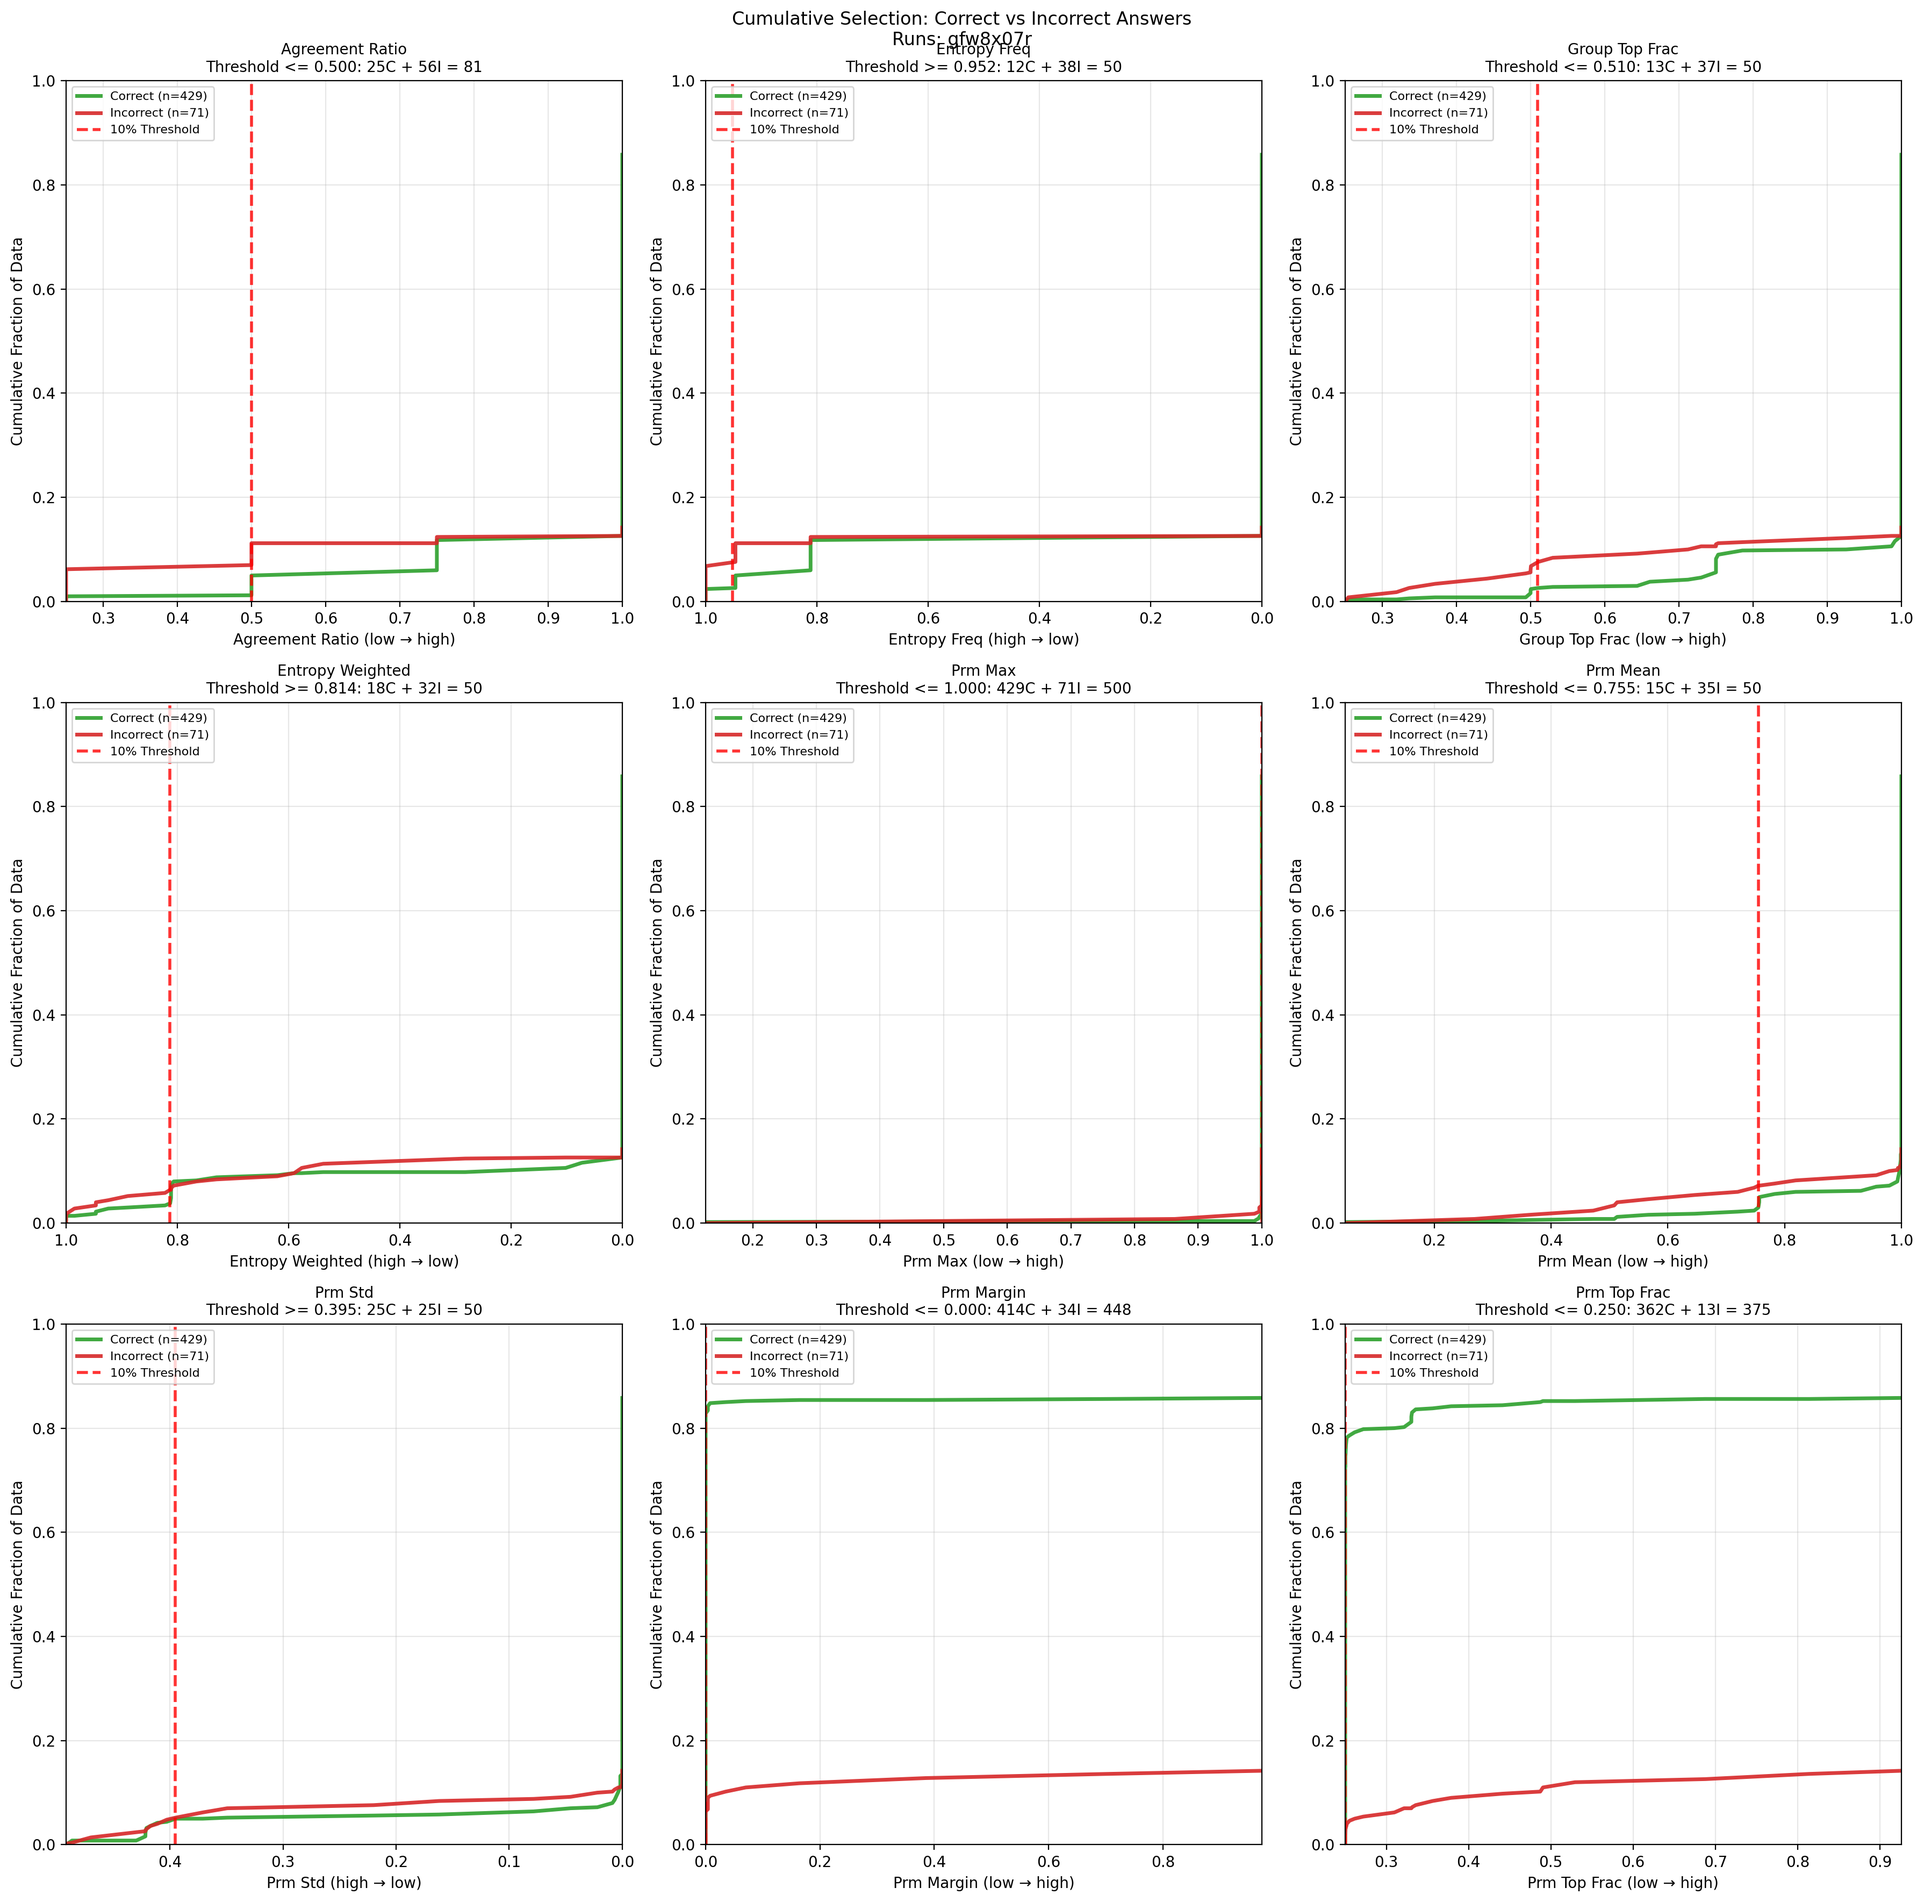
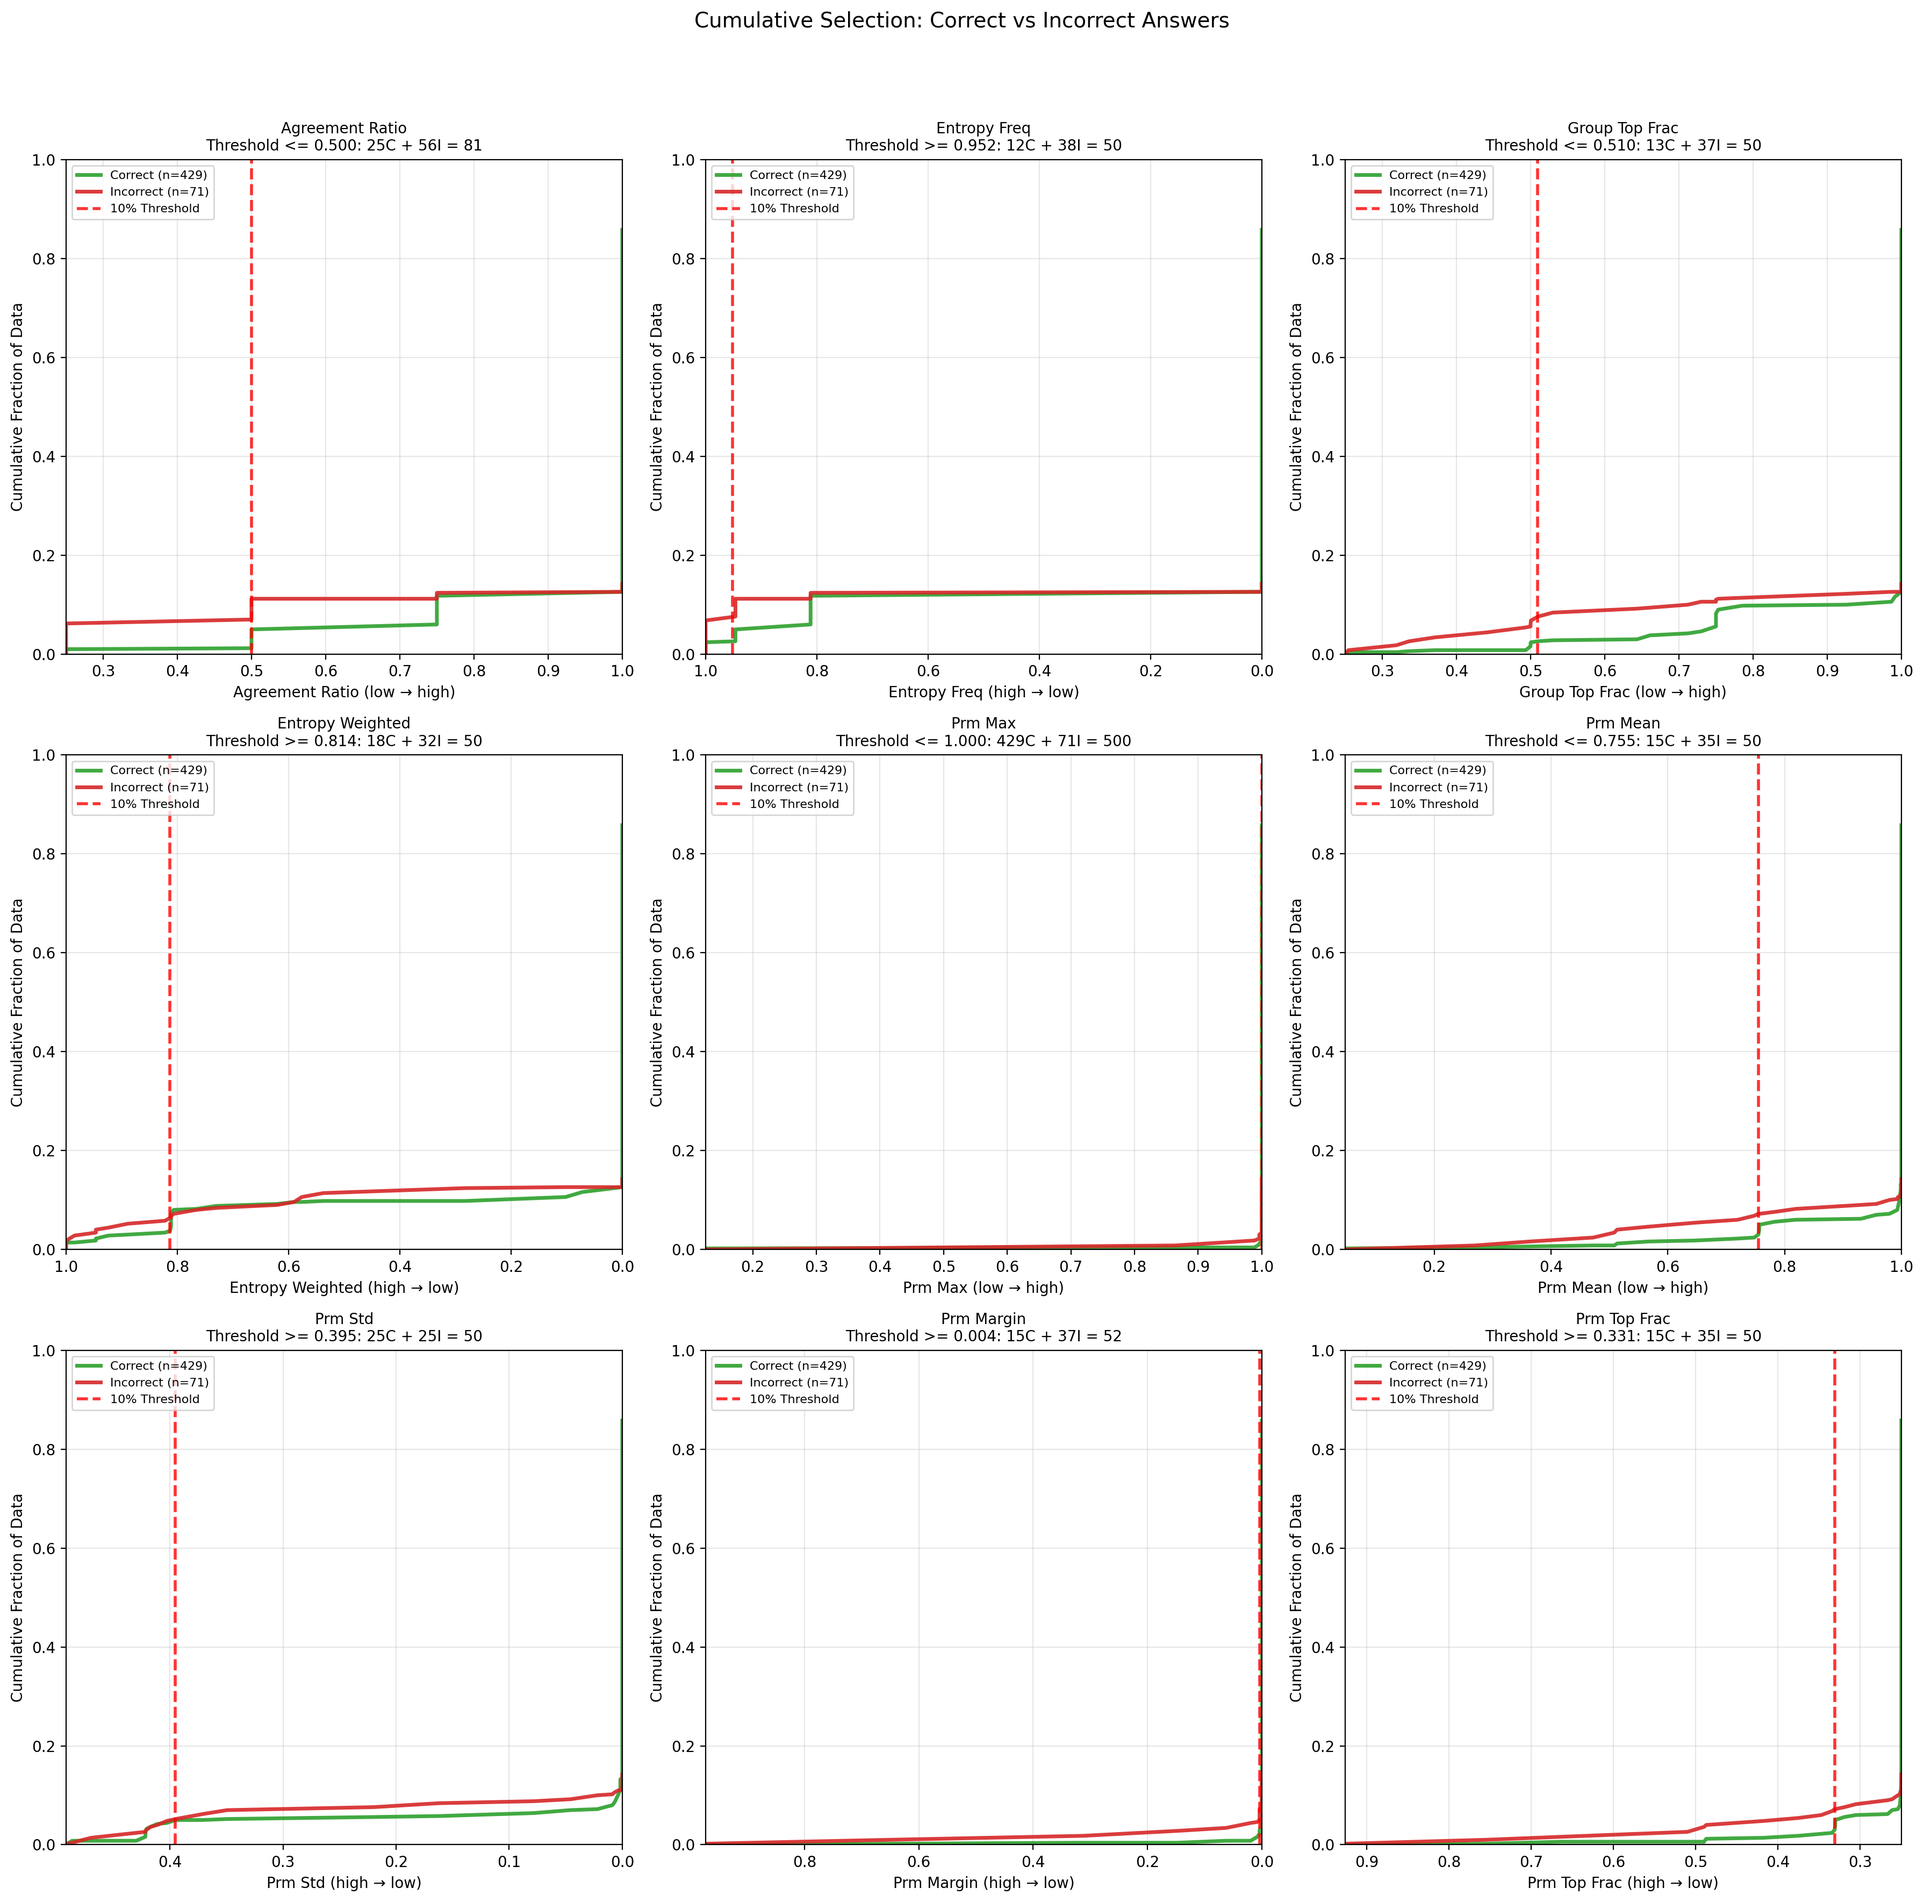
violins complete

diff --git a/scripts/selection_2.py b/scripts/selection_2.py
@@ -19,11 +19,16 @@ from scripts.inference_visualiser import (
 )
 
 
-def calculate_thresholds(all_data: Dict[str, List[float]]) -> Dict[str, float]:
+def calculate_thresholds(
+    all_data: Dict[str, List[float]],
+    correct_data: Dict[str, List[float]],
+    incorrect_data: Dict[str, List[float]],
+) -> Dict[str, float]:
     """Calculate thresholds for each metric to capture 10% of data points.
 
-    Low values indicate high uncertainty: agreement_ratio, group_top_frac, prm_max, prm_mean, prm_margin, prm_top_frac
-    High values indicate high uncertainty: entropy_freq, entropy_weighted, prm_std
+    Direction is determined by comparing means: if incorrect answers have higher mean values,
+    then high values indicate uncertainty (use 90th percentile). If incorrect answers have
+    lower mean values, then low values indicate uncertainty (use 10th percentile).
     """
     thresholds = {}
 
@@ -32,30 +37,50 @@ def calculate_thresholds(all_data: Dict[str, List[float]]) -> Dict[str, float]:
     for metric in all_data.keys():
         combined_data[metric] = all_data[metric]
 
-    # Metrics where LOW values indicate HIGH uncertainty (use 10th percentile)
-    low_uncertainty_metrics = [
-        "agreement_ratio",
-        "group_top_frac",
-        "prm_max",
-        "prm_mean",
-        "prm_margin",
-        "prm_top_frac",
-    ]
-
-    # Metrics where HIGH values indicate HIGH uncertainty (use 90th percentile)
-    high_uncertainty_metrics = ["entropy_freq", "entropy_weighted", "prm_std"]
-
-    # Calculate thresholds
+    # Calculate thresholds based on data-driven direction
     for metric in combined_data.keys():
-        if metric in low_uncertainty_metrics:
-            thresholds[metric] = np.percentile(combined_data[metric], 10)
-        elif metric in high_uncertainty_metrics:
+        correct_mean = np.mean(correct_data[metric]) if correct_data[metric] else 0.0
+        incorrect_mean = (
+            np.mean(incorrect_data[metric]) if incorrect_data[metric] else 0.0
+        )
+
+        # If incorrect answers have higher mean values, high values indicate uncertainty
+        if incorrect_mean > correct_mean:
             thresholds[metric] = np.percentile(combined_data[metric], 90)
         else:
-            # Default to low uncertainty behavior for unknown metrics
+            # If incorrect answers have lower mean values, low values indicate uncertainty
             thresholds[metric] = np.percentile(combined_data[metric], 10)
 
     return thresholds
+
+
+def get_metric_direction(
+    metric: str,
+    correct_data: Dict[str, List[float]],
+    incorrect_data: Dict[str, List[float]],
+) -> str:
+    """Determine if a metric uses <= or >= threshold based on mean comparison.
+
+    Returns "<=" if low values indicate uncertainty, ">=" if high values indicate uncertainty.
+    """
+    correct_mean = np.mean(correct_data[metric]) if correct_data[metric] else 0.0
+    incorrect_mean = np.mean(incorrect_data[metric]) if incorrect_data[metric] else 0.0
+
+    # If incorrect answers have higher mean values, high values indicate uncertainty
+    if incorrect_mean > correct_mean:
+        return ">="
+    else:
+        # If incorrect answers have lower mean values, low values indicate uncertainty
+        return "<="
+
+
+def is_low_uncertainty_metric(
+    metric: str,
+    correct_data: Dict[str, List[float]],
+    incorrect_data: Dict[str, List[float]],
+) -> bool:
+    """Return True if low values indicate high uncertainty for this metric."""
+    return get_metric_direction(metric, correct_data, incorrect_data) == "<="
 
 
 def analyze_threshold_correctness(
@@ -66,21 +91,9 @@ def analyze_threshold_correctness(
     """Analyze how many correct vs incorrect answers fall within each threshold."""
     analysis = {}
 
-    # Metrics where LOW values indicate HIGH uncertainty (use <= threshold)
-    low_uncertainty_metrics = [
-        "agreement_ratio",
-        "group_top_frac",
-        "prm_max",
-        "prm_mean",
-        "prm_margin",
-        "prm_top_frac",
-    ]
-
-    # Metrics where HIGH values indicate HIGH uncertainty (use >= threshold)
-    high_uncertainty_metrics = ["entropy_freq", "entropy_weighted", "prm_std"]
-
     for metric in thresholds.keys():
-        if metric in low_uncertainty_metrics:
+        # Determine direction based on data
+        if is_low_uncertainty_metric(metric, correct_data, incorrect_data):
             # Count values <= threshold
             correct_selected = sum(
                 1 for x in correct_data[metric] if x <= thresholds[metric]
@@ -88,21 +101,13 @@ def analyze_threshold_correctness(
             incorrect_selected = sum(
                 1 for x in incorrect_data[metric] if x <= thresholds[metric]
             )
-        elif metric in high_uncertainty_metrics:
+        else:
             # Count values >= threshold
             correct_selected = sum(
                 1 for x in correct_data[metric] if x >= thresholds[metric]
             )
             incorrect_selected = sum(
                 1 for x in incorrect_data[metric] if x >= thresholds[metric]
-            )
-        else:
-            # Default to low uncertainty behavior
-            correct_selected = sum(
-                1 for x in correct_data[metric] if x <= thresholds[metric]
-            )
-            incorrect_selected = sum(
-                1 for x in incorrect_data[metric] if x <= thresholds[metric]
             )
 
         analysis[metric] = {
@@ -160,7 +165,7 @@ def analyze_and_plot(run_ids: List[str]) -> None:
                     all_incorrect_data[metric].append(metric_value)
 
     # Calculate thresholds for 10% selection
-    thresholds = calculate_thresholds(all_data)
+    thresholds = calculate_thresholds(all_data, all_correct_data, all_incorrect_data)
     correctness_analysis = analyze_threshold_correctness(
         all_correct_data, all_incorrect_data, thresholds
     )
@@ -179,21 +184,19 @@ def analyze_and_plot(run_ids: List[str]) -> None:
     total_points = len(all_data["agreement_ratio"])
     print(f"\nThreshold Analysis (targeting 10% of {total_points} data points):")
 
-    # Metrics where LOW values indicate HIGH uncertainty (use <= threshold)
-    low_uncertainty_metrics = [
-        "agreement_ratio",
-        "group_top_frac",
-        "prm_max",
-        "prm_mean",
-        "prm_margin",
-        "prm_top_frac",
-    ]
-
     for metric in metrics_list:
         if metric not in thresholds:
             continue
 
-        direction = "<=" if metric in low_uncertainty_metrics else ">="
+        # Determine direction based on actual data
+        direction = get_metric_direction(metric, all_correct_data, all_incorrect_data)
+        correct_mean = (
+            np.mean(all_correct_data[metric]) if all_correct_data[metric] else 0.0
+        )
+        incorrect_mean = (
+            np.mean(all_incorrect_data[metric]) if all_incorrect_data[metric] else 0.0
+        )
+
         analysis = correctness_analysis[metric]
         correct_pct = (
             100 * analysis["correct_selected"] / analysis["total_selected"]
@@ -204,6 +207,7 @@ def analyze_and_plot(run_ids: List[str]) -> None:
         print(
             f"  {metric.replace('_', ' ').title()}: {direction} {thresholds[metric]:.4f}"
         )
+        print(f"    Means: Correct={correct_mean:.3f}, Incorrect={incorrect_mean:.3f}")
         print(
             f"    Selected: {analysis['total_selected']} ({100 * analysis['total_selected'] / total_points:.1f}%)"
         )
@@ -247,16 +251,6 @@ def create_cumulative_line_charts(
     elif n_cols == 1:
         axes = axes.reshape(-1, 1)
 
-    # Metrics where LOW values indicate HIGH uncertainty
-    low_uncertainty_metrics = [
-        "agreement_ratio",
-        "group_top_frac",
-        "prm_max",
-        "prm_mean",
-        "prm_margin",
-        "prm_top_frac",
-    ]
-
     for i, metric in enumerate(metrics):
         row = i // n_cols
         col = i % n_cols
@@ -269,8 +263,8 @@ def create_cumulative_line_charts(
         for val in incorrect_data[metric]:
             combined_data.append((val, False))  # False = incorrect
 
-        # Sort data based on metric direction
-        if metric in low_uncertainty_metrics:
+        # Sort data based on data-driven metric direction
+        if is_low_uncertainty_metric(metric, correct_data, incorrect_data):
             # For these metrics, we accumulate from low to high (low → high)
             combined_data.sort(key=lambda x: x[0])
             x_label = f"{metric.replace('_', ' ').title()} (low → high)"
@@ -334,7 +328,7 @@ def create_cumulative_line_charts(
 
         # Customize plot with proper axis limits
         if metric_values:
-            if metric in low_uncertainty_metrics:
+            if is_low_uncertainty_metric(metric, correct_data, incorrect_data):
                 # For these metrics: low → high (left to right)
                 ax.set_xlim(min(metric_values), max(metric_values))
             else:
@@ -346,7 +340,7 @@ def create_cumulative_line_charts(
         ax.set_ylabel("Cumulative Fraction of Data")
 
         # Enhanced title with threshold info
-        direction = "<=" if metric in low_uncertainty_metrics else ">="
+        direction = get_metric_direction(metric, correct_data, incorrect_data)
         analysis = correctness_analysis[metric]
         selected_correct = analysis["correct_selected"]
         selected_incorrect = analysis["incorrect_selected"]
@@ -368,9 +362,9 @@ def create_cumulative_line_charts(
             axes[col].set_visible(False)
 
     plt.suptitle(
-        f"Cumulative Selection: Correct vs Incorrect Answers\nRuns: {', '.join(run_ids)}"
+        "Cumulative Selection: Correct vs Incorrect Answers", fontsize=14, y=0.98
     )
-    plt.tight_layout()
+    plt.tight_layout(rect=(0, 0, 1, 0.95))
 
     # Save the plot
     output_dir = Path("figures/selection")
@@ -403,16 +397,6 @@ def create_split_violin_plots(
         axes = axes.reshape(1, -1)
     elif n_cols == 1:
         axes = axes.reshape(-1, 1)
-
-    # Metrics where LOW values indicate HIGH uncertainty
-    low_uncertainty_metrics = [
-        "agreement_ratio",
-        "group_top_frac",
-        "prm_max",
-        "prm_mean",
-        "prm_margin",
-        "prm_top_frac",
-    ]
 
     for i, metric in enumerate(metrics):
         row = i // n_cols
@@ -455,7 +439,7 @@ def create_split_violin_plots(
             # Create two separate patches for inside and outside threshold
 
             # Split vertices based on threshold
-            if metric in low_uncertainty_metrics:
+            if is_low_uncertainty_metric(metric, correct_data, incorrect_data):
                 # For these metrics, inside threshold means y <= threshold_value
                 inside_vertices = vertices[vertices[:, 1] <= threshold_value]
                 outside_vertices = vertices[vertices[:, 1] > threshold_value]
@@ -507,7 +491,7 @@ def create_split_violin_plots(
             # Create two separate patches for inside and outside threshold
 
             # Split vertices based on threshold
-            if metric in low_uncertainty_metrics:
+            if is_low_uncertainty_metric(metric, correct_data, incorrect_data):
                 # For these metrics, inside threshold means y <= threshold_value
                 inside_vertices = vertices[vertices[:, 1] <= threshold_value]
                 outside_vertices = vertices[vertices[:, 1] > threshold_value]
@@ -551,7 +535,7 @@ def create_split_violin_plots(
         analysis = correctness_analysis[metric]
 
         # Determine selection region based on metric type
-        if metric in low_uncertainty_metrics:
+        if is_low_uncertainty_metric(metric, correct_data, incorrect_data):
             # For these metrics, we select values <= threshold (bottom region)
             y_fill_min = y_min - padding
             y_fill_max = threshold_value
@@ -588,7 +572,7 @@ def create_split_violin_plots(
         ax.set_title(title, fontsize=10)
 
         # Create enhanced legend with selection counts
-        direction = "<=" if metric in low_uncertainty_metrics else ">="
+        direction = get_metric_direction(metric, correct_data, incorrect_data)
         analysis = correctness_analysis[metric]
         selected_correct = analysis["correct_selected"]
         selected_incorrect = analysis["incorrect_selected"]
@@ -643,10 +627,10 @@ def create_split_violin_plots(
         else:
             axes[col].set_visible(False)
 
-    plt.suptitle(
-        f"Split Violin Plots: Correct vs Incorrect Distribution\nRuns: {', '.join(run_ids)}"
-    )
-    plt.tight_layout()
+    # plt.suptitle(
+    #     "Split Violin Plots: Correct vs Incorrect Distribution", fontsize=14, y=0.98
+    # )
+    # plt.tight_layout(rect=(0, 0, 1, 0.95))
 
     # Save the plot
     output_dir = Path("figures/selection")
